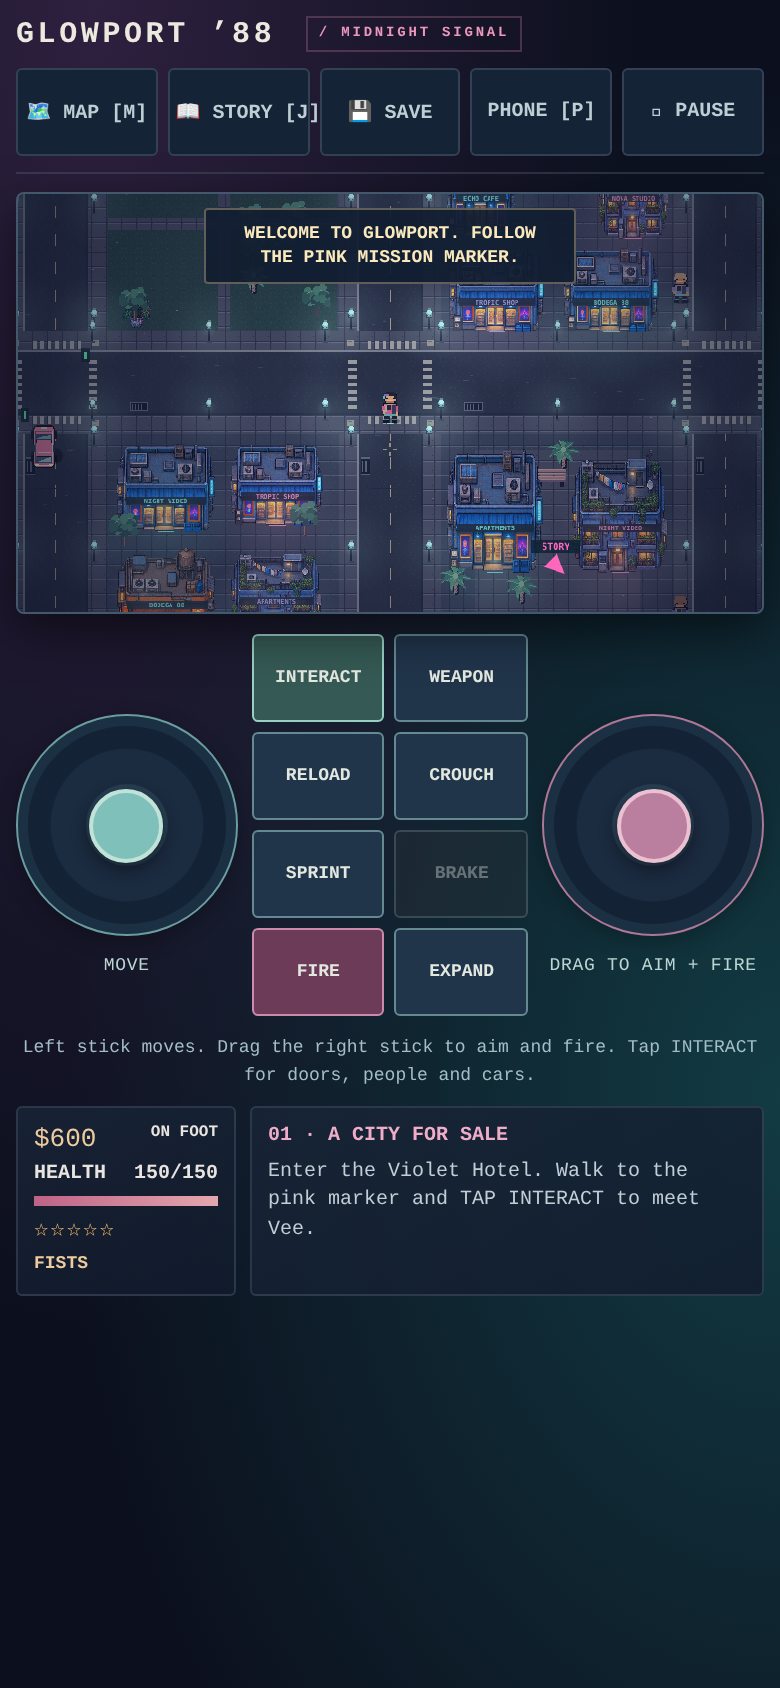
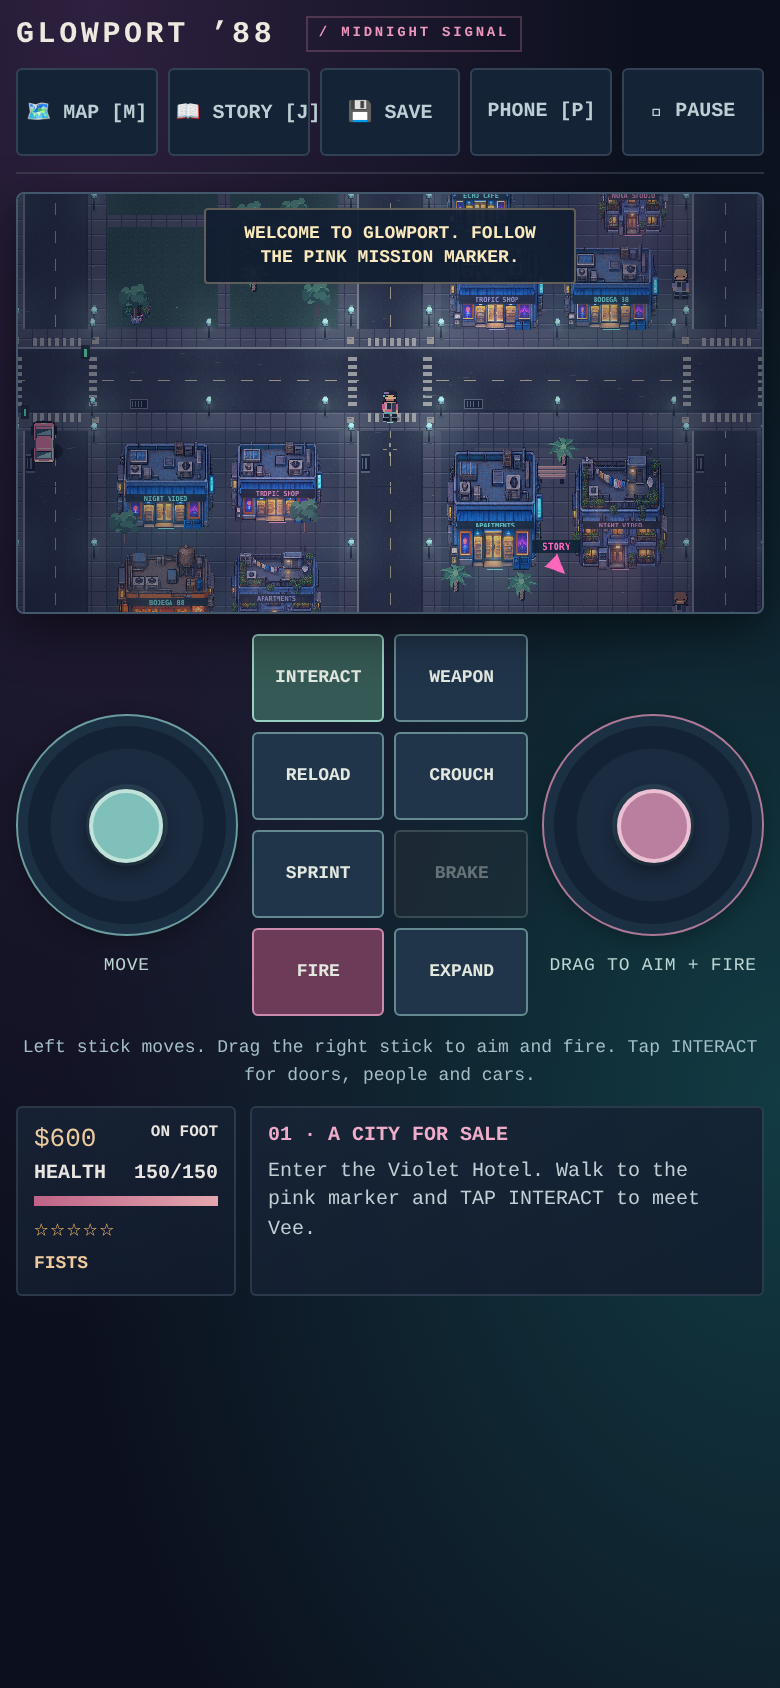
Record verified public story navigation demo delivery

diff --git a/DEVELOPMENT_LOG.md b/DEVELOPMENT_LOG.md
@@ -81,3 +81,4 @@
 - Reproduced missing street arrows for indoor story objectives: world drawing required an outdoor marker while the maps separately projected room markers to their building entrances. 104 of 177 post-training main stages use indoor objectives.
 - Separated navigation targets from semantic objective coordinates: streets guide to entrances, the correct room shows its objective, and other rooms show the lower exit. Completed operations preview the next available main story lead and explain Phone → Jobs acceptance. Checkpoint retry and ending free roam are preserved.
 - Validation passed: full npm test (92 browser scenarios, model/content/art checks and accelerated campaign integration), standalone desktop/mobile playback with subresources blocked, and an explicit packaged entrance-arrow rendering regression. Navigation coverage includes all 177 post-training story stages plus real touch handoffs, next-job acceptance, retry and endings. Physical phones/Safari remain untested.
+- Published tested source ccbc254 to codex/gameplay-overhaul and demo commit 3062cdc to gh-pages. Public 0.4.2 metadata and the exact standalone SHA-256 1959d065d7be8a53a8e0ff707bcfd5a3642b4913d1f36679ec8a209afab96f97 match. Certificate-verified public download plus mobile playback of those deployed bytes passes Start, touch movement, phone/jobs/map and the restored indoor-mission entrance arrow. Verified URL: https://atlasnoah.github.io/Glowport88/?v=0.4.2-navigation.
